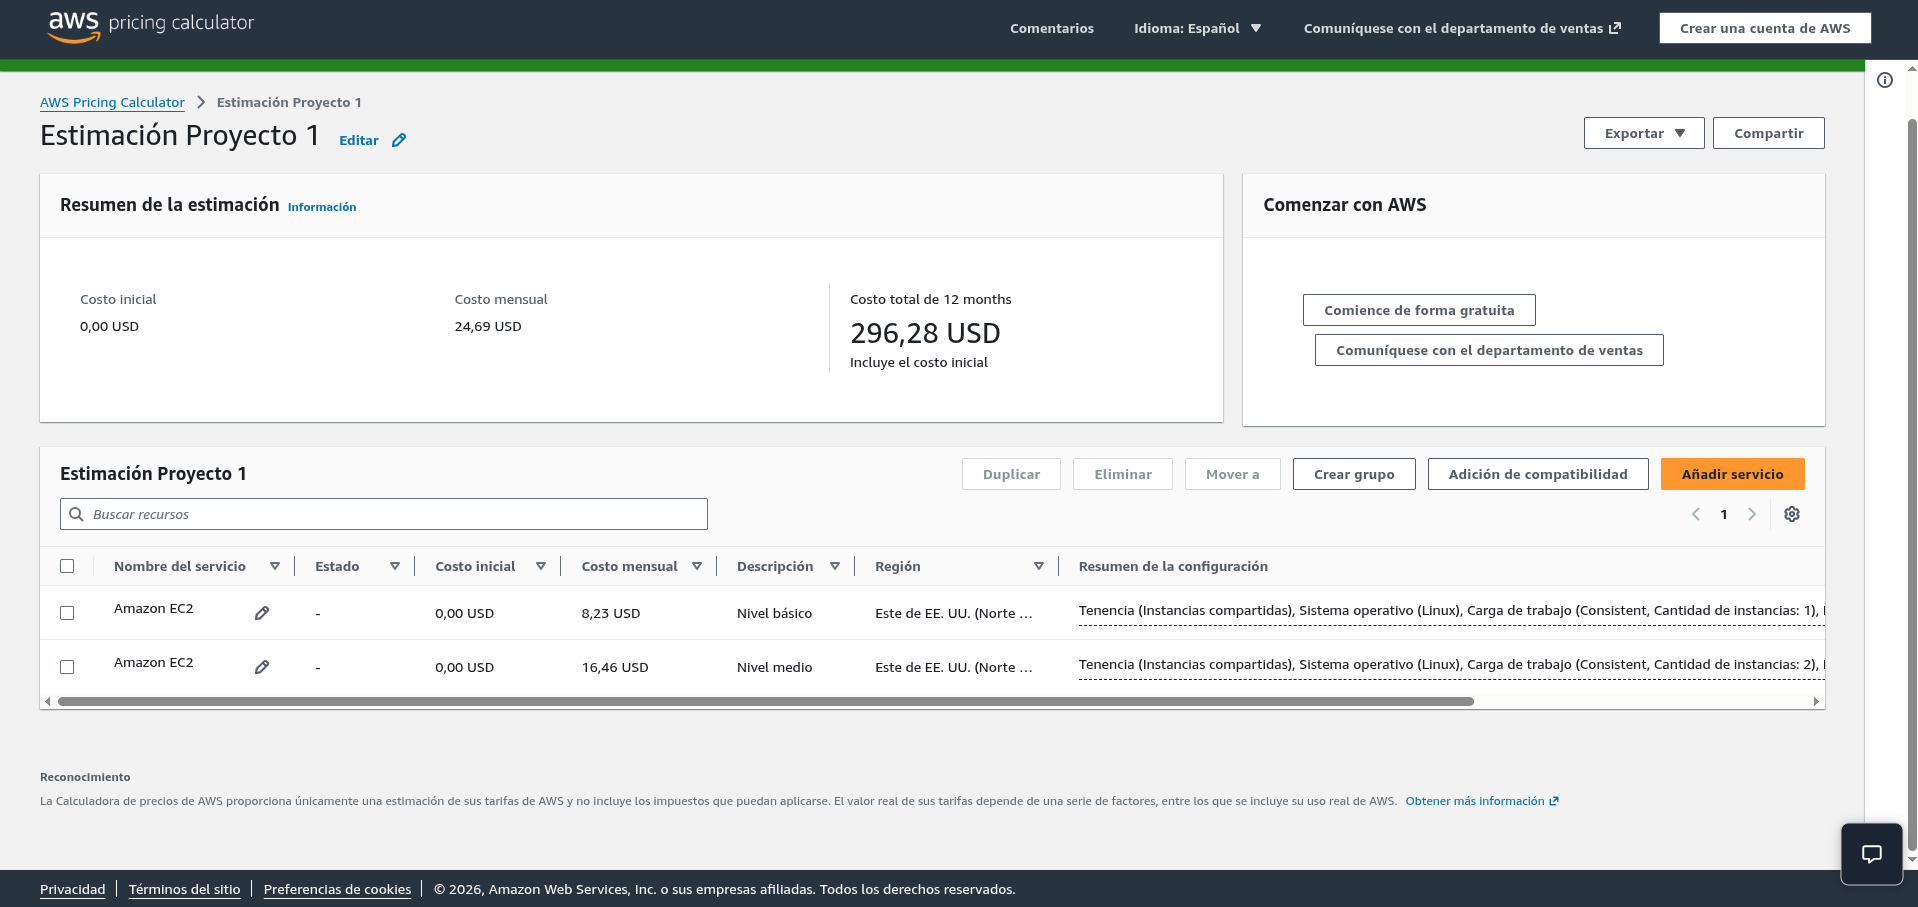
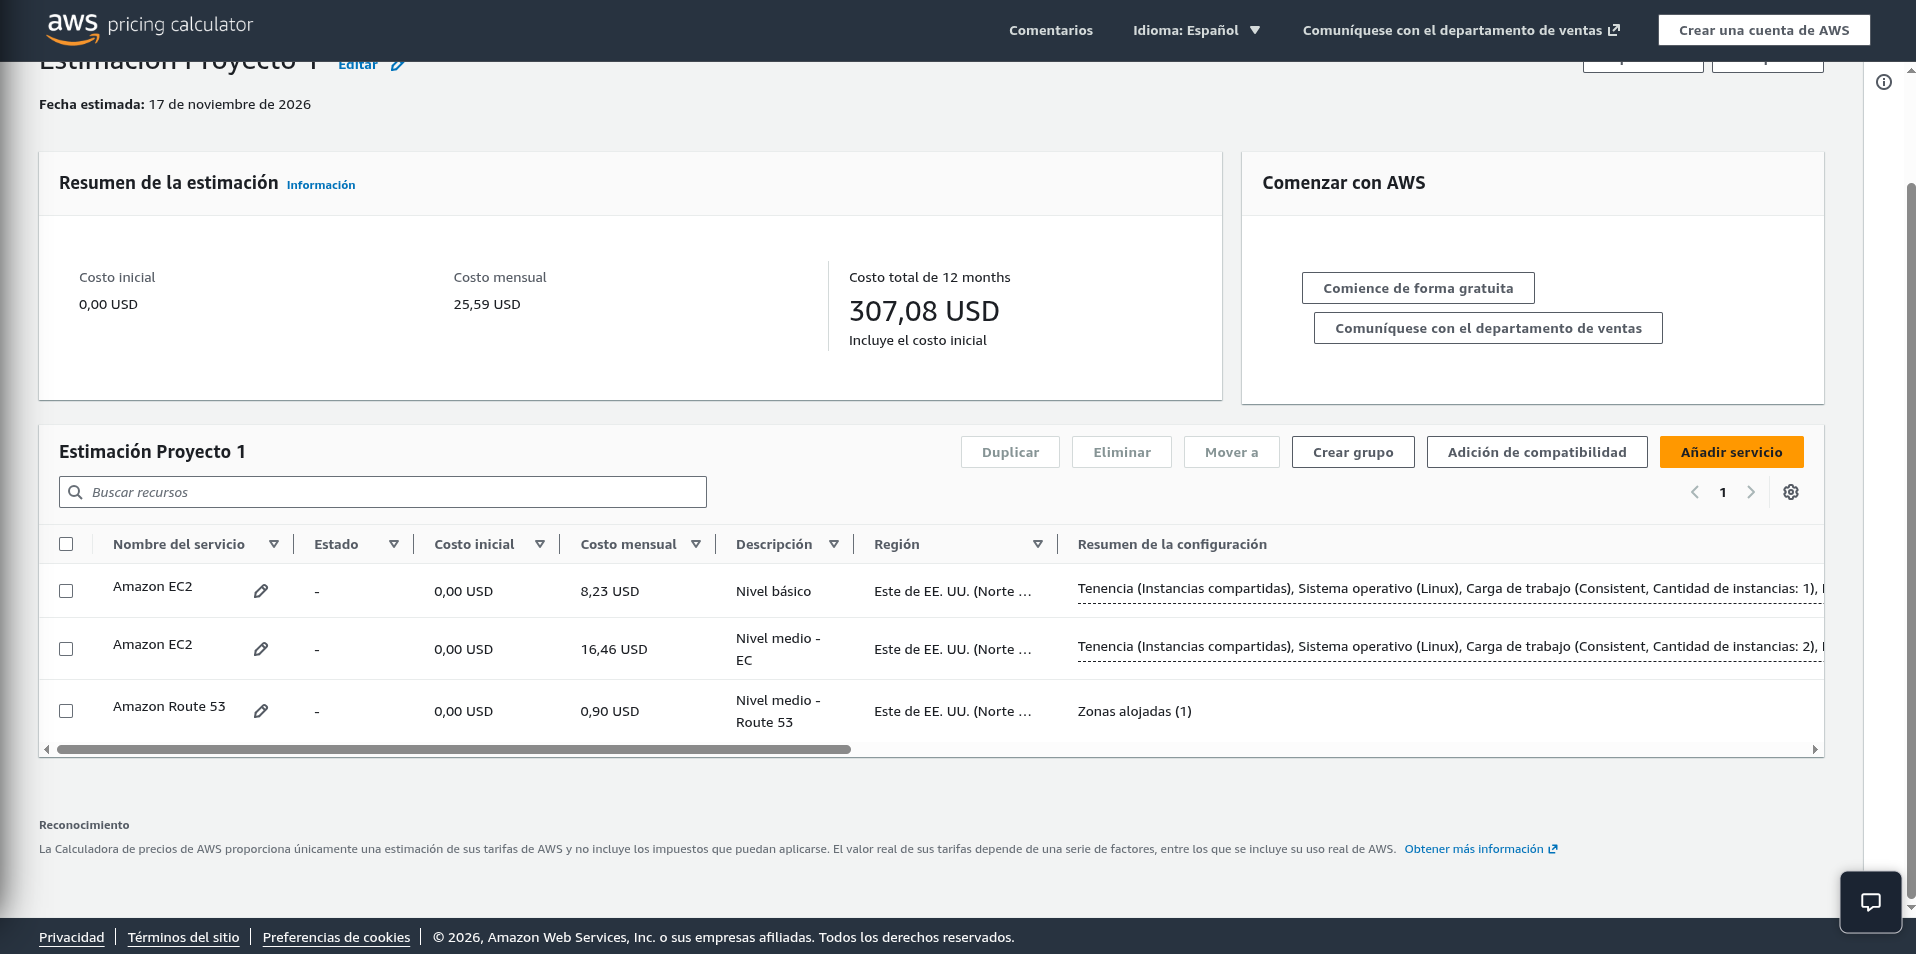
Mejoras en el readme y Route 53 añadido al presupuesto medio

diff --git a/README.md b/README.md
@@ -1,16 +1,16 @@
 # Proyecto 1 · Mi web en AWS: Librería Tinta
 
 * **Alumna:** Mª Inés Antón Castelló
-* **Entorno:** AWS Academy Learner Lab · Región `us-east-1`
+* **Entorno:** AWS Academy Learner Lab · Región `us-east-1` (Virginia del norte)
 <!-- * **Vídeo demostración:** [Ver vídeo en YouTube / Drive](https://enlace) -->
 
 ---
 
 ## 1. Arquitectura del proyecto
 
-A continuación se muestra el diagrama de la infraestructura desplegada en `us-east-1`:
+A continuación se muestra el diagrama de la infraestructura desplegada en `us-east-1` (Virginia del norte):
 
-![Diagrama de arquitectura](img/diagrama.png)
+  ![Diagrama de arquitectura](img/diagrama.png)
 
 ---
 
@@ -18,14 +18,19 @@ A continuación se muestra el diagrama de la infraestructura desplegada en `us-e
 
 ### B1. Diseño de red (VPC)
 
-Se han creado manualmente los siguientes recursos en `us-east-1`:
+Se han creado manualmente los siguientes recursos en `us-east-1` (Virginia del norte):
 
-* **VPC (`libreria-vpc`):** Bloque CIDR `10.0.0.0/16`.
+* **VPC (`libreria-vpc`):** 
+  * **Bloque CIDR:** `10.0.0.0/16`
+  * **Opciones DNS:** Habilitadas *Resolución de DNS* y *Nombres de host DNS* (necesarias para el enrutamiento ponderado con Route 53 del apartado 3).
   ![VPC](img/1-vpc.png)
+  
 * **Subred pública (`libreria-publica`):** Bloque CIDR `10.0.1.0/24` en la zona de disponibilidad `us-east-1a`, con asignación automática de IPv4 pública activada.
   ![Subred](img/2-subred.png)
+  
 * **Internet Gateway (`libreria-igw`):** Asociado a `libreria-vpc`.
   ![Internet Gateway](img/3-igw-puerta-enlace.png)
+  
 * **Tabla de rutas (`libreria-rt-publica`):** Ruta por defecto `0.0.0.0/0` apuntando a `libreria-igw` y asociada explícitamente a `libreria-publica`.
   ![Tabla de rutas](img/4a-tabla-rutas.png)
   ![Tabla de rutas - Asociación subred](img/4b-tabla-rutas-asociacion-subred.png)
@@ -40,7 +45,7 @@ Se ha creado el grupo de seguridad `libreria-web-sg` dentro de `libreria-vpc` co
 * **HTTP (TCP 80):** Origen `0.0.0.0/0` (acceso público para los clientes de la web).
 * **SSH (TCP 22):** Origen `178.236.127.194/32` (acceso restringido únicamente al administrador).
 
-![Grupo de seguridad](img/5-security-group.png)
+  ![Grupo de seguridad](img/5-security-group.png)
 
 > **¿Por qué el puerto SSH sólo se abre a mi IP?**  
 > Porque desde este puerto se permite el acceso remoto y la administración total del servidor. Al restringirlo sólo para mi IP pública, se evitan ataques de fuerza bruta y accesos no autorizados desde cualquier otro punto de Internet.
@@ -62,7 +67,7 @@ Se ha lanzado la instancia `libreria-web` (`t3.micro`, Amazon Linux 2023) en `li
 * **Coste mensual estimado:** ~8,23 USD/mes (1 instancia `t3.micro` Linux On-Demand funcionando 24/7 + 8 GB de almacenamiento EBS `gp3` en `us-east-1`).
 * **Cómo abaratar el coste:** Dado que es una librería de barrio y el tráfico de madrugada es nulo, se podría reducir el gasto programando el apagado automático de la instancia fuera del horario comercial con *AWS Instance Scheduler*, cambiando a una instancia ARM más económica como `t4g.micro`, o contratando un *EC2 Instance Savings Plan* a 1 o 3 años.
 
-![Presupuesto Nivel Básico](img/8-presupuesto-basico.png)
+  ![Presupuesto Nivel Básico](img/8-presupuesto-basico.png)
 
 ---
 
@@ -70,25 +75,40 @@ Se ha lanzado la instancia `libreria-web` (`t3.micro`, Amazon Linux 2023) en `li
 
 ### M1. Configuración de Route 53 y reparto 80/20
 
-1. Se han habilitado las opciones *Resolución de DNS* y *Nombres de host DNS* en `libreria-vpc`.
+1. Anteriormente, en el apartado B1, ya se habilitaron las opciones *Resolución de DNS* y *Nombres de host DNS* en la VPC `libreria-vpc`.
 2. Se ha desplegado una segunda instancia (`libreria-web-2`) usando [`scripts/user-data2.sh`](scripts/user-data2.sh).
-![Webs en navegador](img/9a-webs-navegador.png)
+  ![Webs en navegador](img/9a-webs-navegador.png)
 
 3. Se ha creado una **Private Hosted Zone** llamada `libreria.lab` asociada a `libreria-vpc` con dos registros `A` ponderados para `web.libreria.lab`:
    * **Servidor 1 (`10.0.1.54`):** Peso `80`
    * **Servidor 2 (`10.0.1.245`):** Peso `20`
-
-![Registros Route 53](img/9b-route53-registros.png)
+  ![Registros Route 53](img/9b-route53-registros.png)
 
 * **Comprobación desde dentro de la VPC (`dig` y `curl`):**
+
+```bash
+# Instalar el paquete bind-utils para disponer del comando 'dig' por si no viene preinstalado en la instancia
+sudo dnf install -y bind-utils
+
+# Devuelve una sola IP privada (puede ser distinta cada vez que se ejecute)
+dig +short web.libreria.lab
+
+# Bucle que imprime 2 líneas con el recuentro del tráfico redirigido a cada versión
+for i in $(seq 1 30); do dig +short web.libreria.lab; done | sort | uniq -c
+
+# Bucle para ver de forma más gráfica las peticiones, filtrando sólo el título de la web
+for i in {1..20}; do curl -s [http://web.libreria.lab](http://web.libreria.lab) | grep "<h1>"; done
+```
+
   ![Comprobación DNS](img/10-comprobacion-dns.png)
 
 ### M2. Actualización del coste
 
-* **Enlace a la estimación actualizada:** [Ver presupuesto Nivel Medio](https://calculator.aws/#/estimate?id=57ebec69e2eb3ae54e8dc2c72d28583734a619f4)
+* **Enlace a la estimación actualizada:** [Ver presupuesto Nivel Medio](https://calculator.aws/#/estimate?id=35f2894320b6a77cbb0b0fb8ef39810a931005ca)
 * **Coste mensual estimado:** ~16,46 USD/mes (2 instancias `t3.micro` 24/7 + 1 zona hospedada en Route 53).
+* **Comparativa y justificación:** El coste aumenta aproximadamente al doble respecto al nivel básico al incorporar una segunda instancia y la zona hospedada (aunque esta sólo suma 0,9 USD/mes).
 
-![Presupuesto Nivel Medio](img/11-presupuesto-medio.png)
+  ![Presupuesto Nivel Medio](img/11-presupuesto-medio.png)
 
 ---
 
@@ -116,6 +136,4 @@ chmod 700 desplegar.sh
 * **Prompts útiles empleados:**
   * *"Dame una plantilla completa en Markdown para el README.md que cumpla con todos los requisitos de entrega del proyecto, incluyendo el cálculo de costes y que la tenga que rellenar yo."*
   
-<!-- * **Error o propuesta incorrecta detectada y corregida:**
-  * *Propuesta inicial:* 
-  * *Comprobación y corrección:* -->
+* **Uso y revisión de la respuesta:** La estructura generada se utilizó como plantilla base para organizar las secciones de la memoria técnica, adaptando posteriormente todos los apartados, nombres de recursos, capturas y cálculos reales de mi entorno en AWS.
